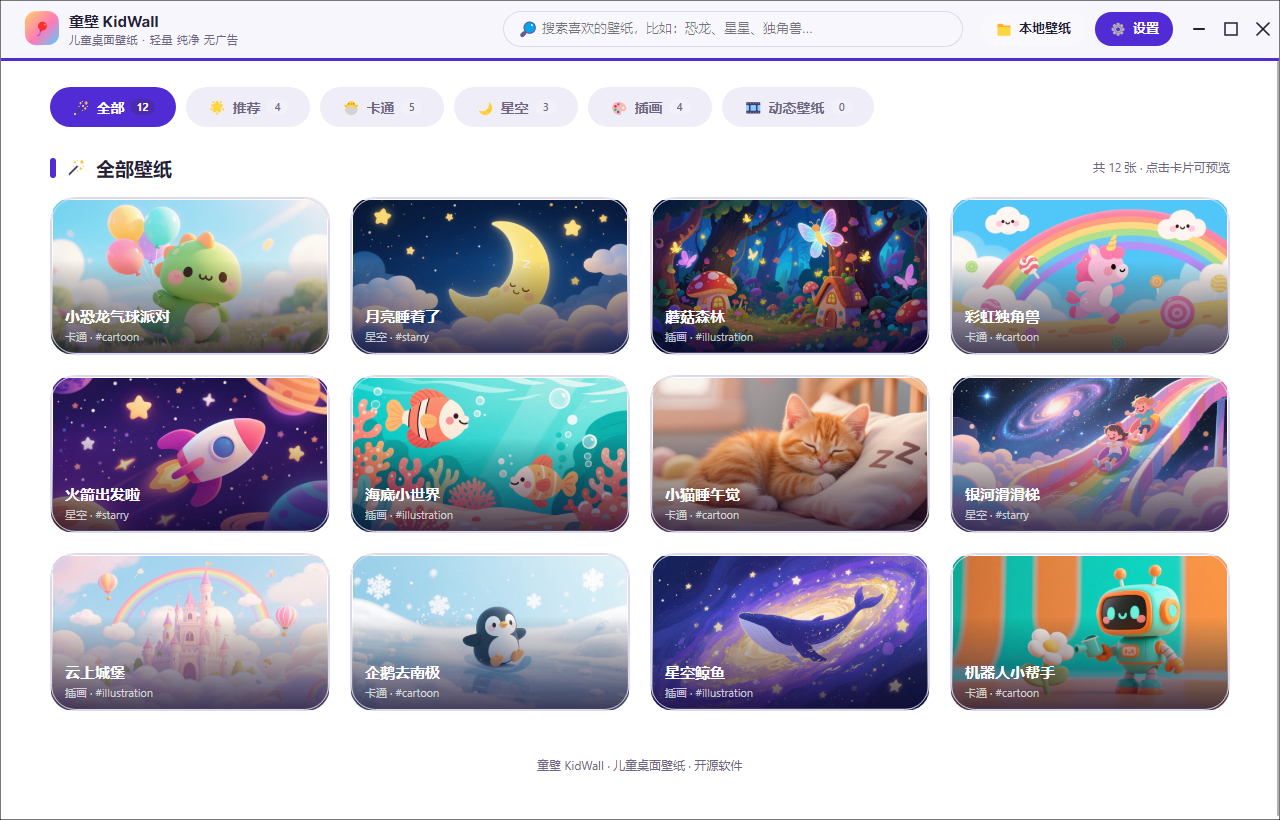
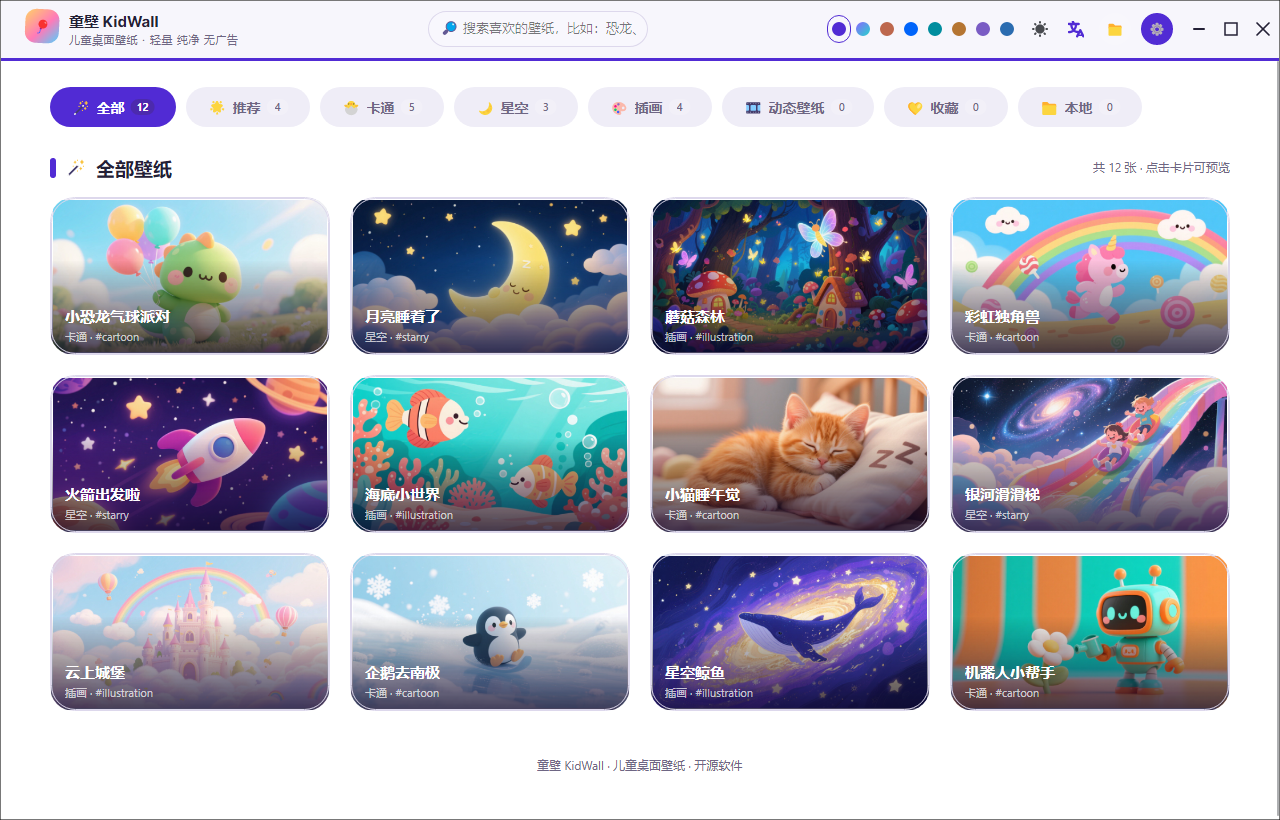
docs(童壁): 更新原生界面截图与1.0.8验收发布记录

Changed region(s): [[0.3438, 0.0, 0.9062, 0.061], [0.8125, 0.122, 0.875, 0.1524], [0.6875, 0.122, 0.75, 0.1524]]

diff --git a/docs/UI-VERIFICATION.md b/docs/UI-VERIFICATION.md
@@ -1,10 +1,14 @@
 # 原型与实现验收
 
-2026-10-15，版本 1.0.7。原型位于 `design/index.html`，产品使用 Semi、Ursa 与 CodeWF 控件体系。以相同的 1280 × 820 窗口核对标题栏、分类、四列图库、设置和关于窗口；不会用构建成功代替界面验收，也不把截图数量折算成还原百分比。
+2026-10-15，版本 1.0.8。原型位于 `design/index.html`，产品使用 Semi、Ursa 与 CodeWF 控件体系。以相同的 1280 × 820 窗口核对标题栏、分类、四列图库、设置和关于窗口；不会用构建成功代替界面验收，也不把截图数量折算成还原百分比。
 
 ## 已验证
 
 - 核心测试 8 项通过。偏好、壁纸目录均使用源生成 JSON。
+- 实际界面 268 条断言，覆盖真实控件绑定、持久化、动态切语与更新状态；Windows NativeAOT 使用同一套断言运行。
+- 收藏与本地目录使用稳定标识写入偏好，覆盖刷新、重复目录规范化、重启恢复、移除收藏后的即时过滤及计数通知；增加收藏与本地分类。原型同步收藏、唯一当前壁纸、跨刷新状态和翻译后的分类搜索。
+- 标题栏只保留八个配色点、Ursa 三态主题按钮及 Semi 语言菜单，设置页去掉重复外观入口；实际点击 Ursa 内部按钮并通过真实 ListBox 验证选择与持久化。
+- 实际展开语言菜单并执行菜单项；Ursa 内部按钮的三态工具提示绑定宿主 T4 资源，跟随中英切换即时刷新。
 - 真实 XAML 离屏回归覆盖八套配色的浅深模式，另验证系统模式、模式与配色独立保存、搜索、预览、收藏和当前卡片动态切语。
 - 关于窗口保持打开时切换中英，校验实际程序集版本、编译时间和平台。受控服务验证检查、失败、下载后安装入口、取消和关闭取消；不启动真实安装器。
 - 静态图库使用仓库 12 张真实图片及隔离偏好。浅深两种模式下检查所有可见徽标，装饰光效不能产生“动态壁纸”徽标。
@@ -38,4 +42,4 @@ dotnet publish scripts/ui-verification/UiVerification.csproj -c Release -r win-x
 
 当前尚不能宣称达到全页面 95% 还原：真实视频播放器、浮层过渡的逐帧视觉、多 DPI、键鼠及输入法尚未逐项桌面验收。锁屏期间使用真实控件离屏渲染；未重新操作实际桌面或执行真实安装。Linux/macOS 运行、Windows 壁纸设置和 VLC 动态桌面仍需对应环境与用户数据下的专项验收。原生编译存在依赖库的裁剪和 AOT 分析警告，已通过路径不代表全部反射分支。
 
-本轮最终原生验收：共享 Avalonia 12.1.4.20，正式 Windows x64 NativeAOT 发布与206项实际界面断言通过。修正卡片遮罩40%透明停靠点后重新发布并复验通过；本页及README的PNG来自最终NativeAOT验证器。Windows EXE安装包已编译，签名/DMG失败传播、五平台安装包与SHA256门禁正反例已验证，实际安装器交互未执行。
+本轮最终原生验收：共享 Avalonia 12.1.4.21，正式 Windows x64 NativeAOT 发布与260项实际界面断言通过。修正卡片遮罩40%透明停靠点后重新发布并复验通过；本页及README的PNG来自最终NativeAOT验证器。Windows EXE安装包已编译，签名/DMG失败传播、五平台安装包与SHA256门禁正反例已验证，实际安装器交互未执行。

diff --git a/README.md b/README.md
@@ -3,6 +3,7 @@
 
 ✨ 核心特性
 - 🖼 静态图片壁纸：本地图片一键设置桌面
+- 💛 收藏与本地图库：收藏和导入目录持久化，刷新或重启后恢复，支持独立分类筛选
 - 🎞 动态壁纸支持：动画、视频类动态桌面
 - 🧒 面向儿童：界面简洁，壁纸资源偏向童趣画风
 - ⚡ 轻量低占用：后台资源消耗小，不打扰孩子学习使用电脑
@@ -10,7 +11,7 @@
 
 > 适合家长给孩子电脑配置桌面，自定义孩子喜欢的卡通、星空、插画桌面背景。
 
-当前版本：1.0.7。支持中英文动态切换，浅色、深色、跟随系统三种模式，以及与 CodeWF Demo 共用的八套配色。
+当前版本：1.0.8。标题栏展示与 CodeWF Demo 共用的八个配色点、Ursa 三态主题按钮和 Semi 语言菜单，支持中英文动态切换；设置页保留功能参数。
 
 ![KidWall 原生深色图库](docs/media/kidwall-native-dark.png)
 
@@ -39,7 +40,7 @@
 
 ```powershell
 pwsh scripts/publish.ps1 -RuntimeIdentifier win-x64
-./scripts/build_installer.ps1 -Version 1.0.7
+./scripts/build_installer.ps1 -Version 1.0.8
 ```
 
 ## 发布

diff --git a/.github/release-notes/v1.0.8.md b/.github/release-notes/v1.0.8.md
@@ -1,0 +1,10 @@
+# KidWall 1.0.8
+
+- 标题栏统一八个配色点、Ursa 三态主题按钮和 Semi 语言菜单，设置中移除重复外观入口；主题工具提示动态切换中英文。
+- 收藏与本地导入目录写入偏好并在刷新、重启后恢复，新增收藏和本地分类；规范化重复目录，修复分类计数通知。
+- 预览中收藏不关闭预览，图库刷新保留当前与收藏状态；静态图片不再因装饰光效显示动态壁纸徽标。
+- 单文件原型同步标题栏、收藏、当前壁纸唯一性和跨刷新状态，英文搜索覆盖翻译后的分类。
+- 核心 8 项测试、实际界面 268 条断言及离线原型审计通过；Windows 正式脚本 NativeAOT 与原生界面验证均使用隔离偏好和壁纸替身。
+- 发布 Windows x64、Linux x64/arm64、macOS x64/arm64 安装包及 SHA-256 校验文件。
+
+验收不会更改用户桌面或启动真实安装器；平台能力及验证边界见 `docs/UI-VERIFICATION.md`。
